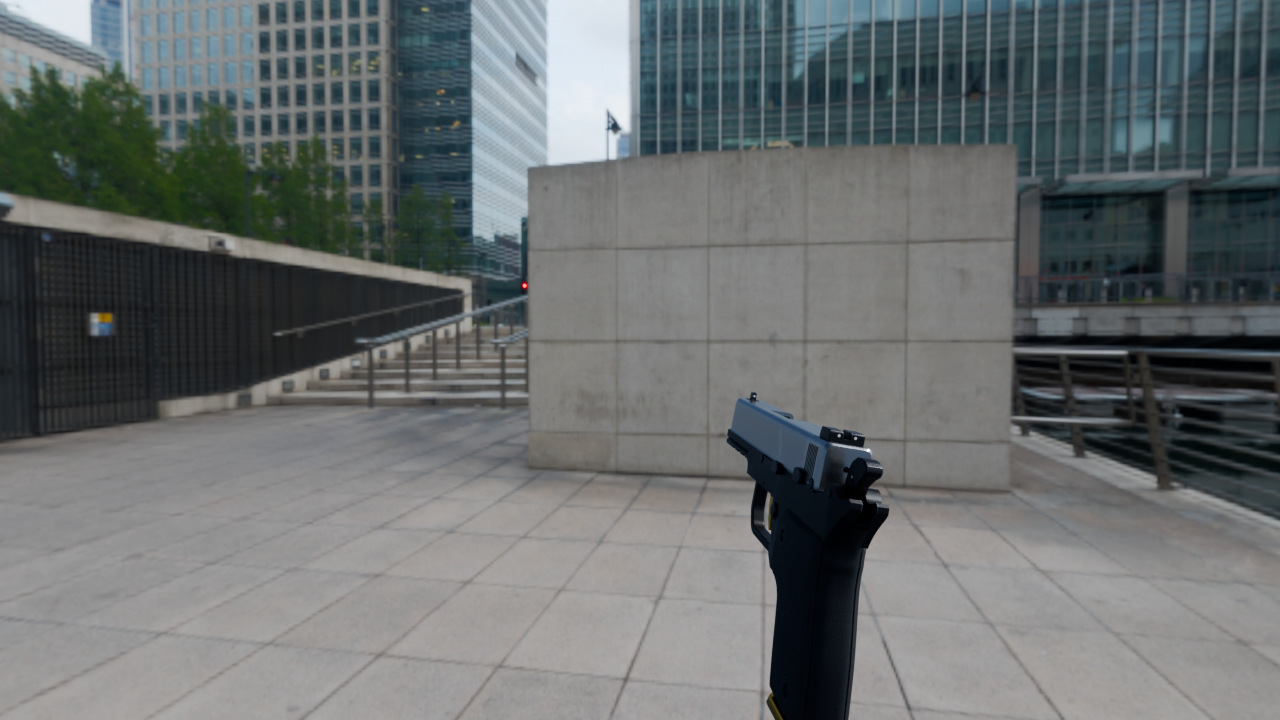
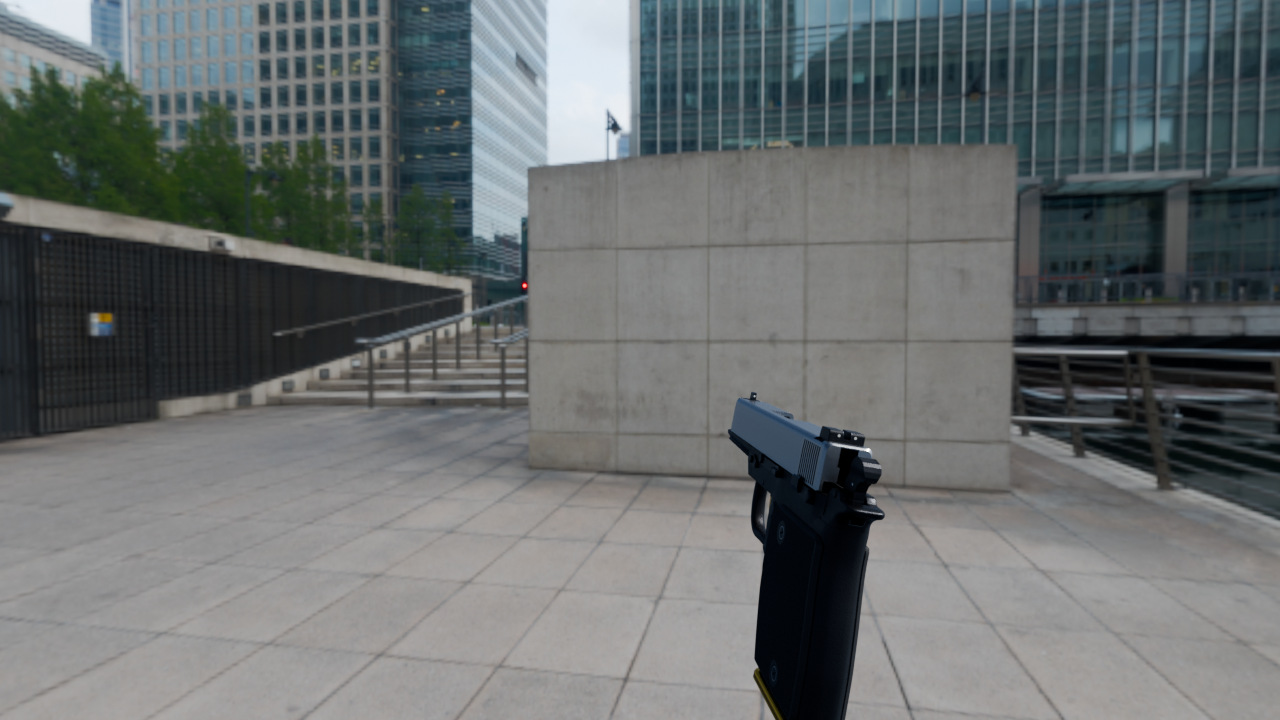
Weapons round 2: NINE exported and proven, hero and first-person previews
Claude-Session: https://claude.ai/code/session_01HkcHdD7NbyxwnFfuuSpZY4

diff --git a/art/blender/PROGRESS.md b/art/blender/PROGRESS.md
@@ -530,3 +530,8 @@ _weapons_kit.py (my files); mi/ untouched.
   magazine with flat sides and crisp 2.5 x 0.8 mm ribs, forged lug, catch lug, spine weld, turned floor plate;
   handguard 46->41 mm C section with finger swell and chamfered vents; oval grip; butt plate seated 2 mm under the
   handguard; stamped bowed selector with detent; crisp dimple; booster flats + grooved ring; charging slot widened.
+- NINE exported (4K set Nine at 7,145 px/m with UV weights; SK_Nine 79.1k tris) and proven: `_weapons_check.py`
+  Nine ALL FIXED POINTS KEPT (bones/sockets 1e-5 m, length -0.0329..0.201, height -0.1345..0.0185, width 31.0 mm,
+  notch and post profiles, sight line, magazine in place X -0.0292..0.0453 (brief -0.029..0.045), trigger face to
+  front strap 34.7 mm, slide back 10/20/30/44 mm: 0 overlaps, trigger 17 deg clear, re-import poses < 1.4e-8 m).
+  Previews weapons_nine_hero / weapons_nine_fp rendered after the NINE's last change. CHOPPER 4K bake running.
